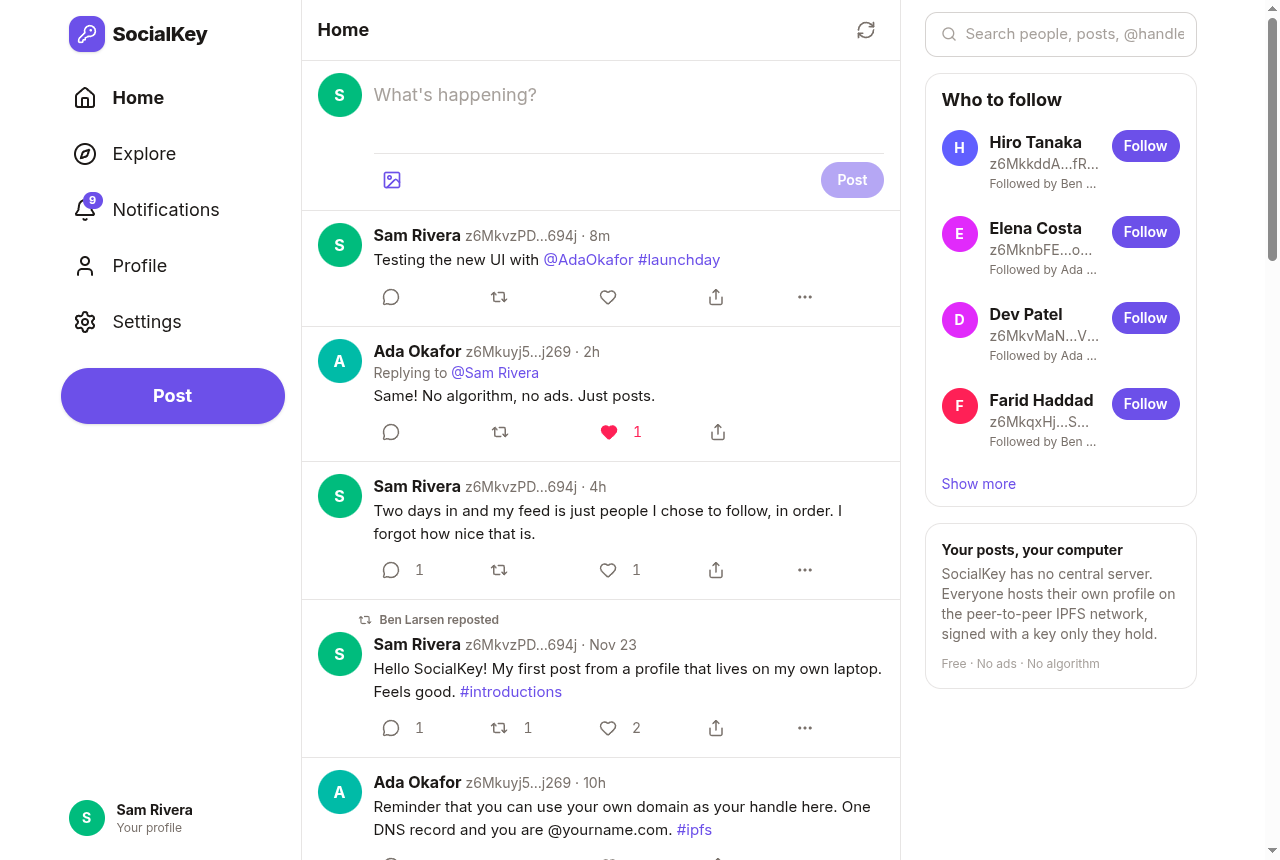
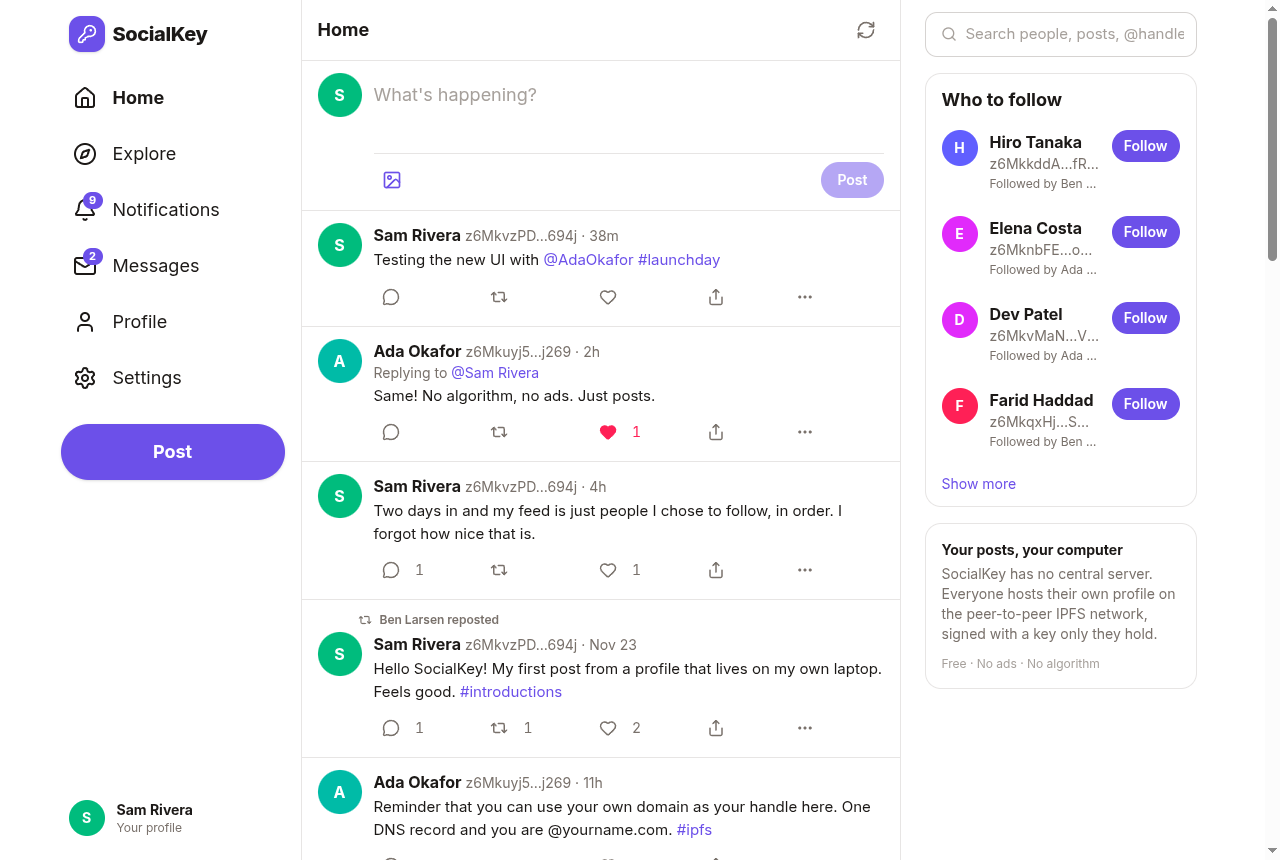
Refresh screenshots and add encrypted messages to the README

diff --git a/README.md b/README.md
@@ -31,8 +31,10 @@ SocialKey has no database and no server. Each person runs a small app that hosts
 |---|---|
 | ![Profile](docs/screenshots/profile.png) | ![Notifications](docs/screenshots/notifications.png) |
 | **Profiles** with banners, bios, pinned posts, and Posts / Replies / Media / Likes tabs | **Notifications** for replies, mentions, likes, reposts and new followers |
-| ![Explore](docs/screenshots/explore.png) | ![Landing](docs/screenshots/landing.png) |
-| **Explore**: people your friends follow, trending hashtags and posts from friends of friends | **A public website** anyone can visit, even without the app |
+| ![Explore](docs/screenshots/explore.png) | ![Messages](docs/screenshots/messages.png) |
+| **Explore**: people your friends follow, trending hashtags and posts from friends of friends | **Encrypted messages** stored on your own computers, readable only by the two of you |
+| ![Landing](docs/screenshots/landing.png) | |
+| **A public website** anyone can visit, even without the app | |
 
 - End-to-end encrypted direct messages with unread badges
 - Posts with up to 4 images, replies and threads, reposts and quotes, likes, @mentions with autocomplete, #hashtags
